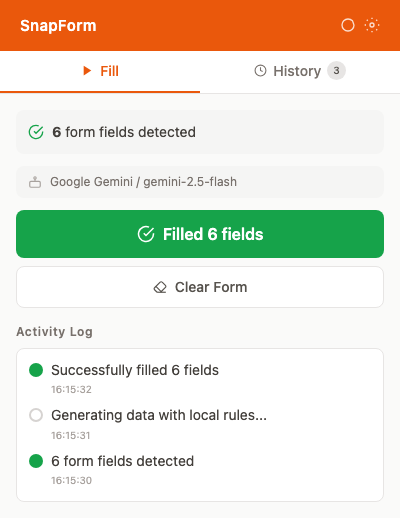
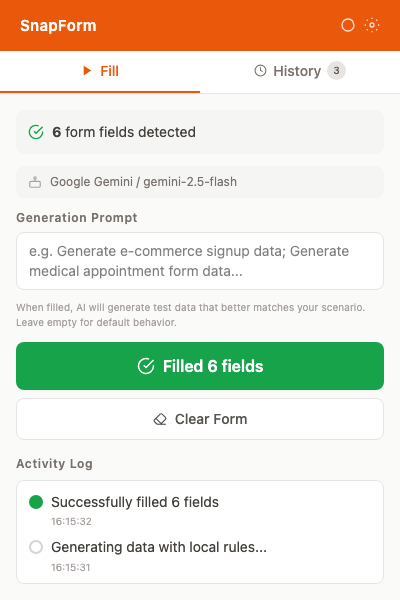
docs: fix screenshots to include custom prompt textarea in popup

Changed region(s): [[0.03, 0.4015, 0.96, 0.9575], [0.0, 0.0309, 1.0, 0.3707]]

diff --git a/screenshots/compose.html b/screenshots/compose.html
@@ -1,0 +1,84 @@
+<!DOCTYPE html>
+<html>
+<head>
+<meta charset="UTF-8">
+<style>
+  * { margin: 0; padding: 0; box-sizing: border-box; }
+  .scene { width: 1280px; height: 800px; position: relative; overflow: hidden; }
+</style>
+</head>
+<body>
+<div id="root"></div>
+<script>
+  const params = new URLSearchParams(location.search);
+  const bg = params.get('bg'); // e.g. scene1, scene2, scene3
+  const popup = params.get('popup'); // e.g. popup-fill-en.png
+
+  const backgrounds = {
+    scene1: `
+      <div style="width:1280px;height:800px;background:#fff;font-family:-apple-system,BlinkMacSystemFont,sans-serif;">
+        <div style="background:#e7e5e4;padding:8px 12px;display:flex;align-items:center;gap:8px;border-bottom:1px solid #d6d3d1;">
+          <div style="display:flex;gap:6px;"><span style="width:12px;height:12px;border-radius:50%;background:#ef4444;"></span><span style="width:12px;height:12px;border-radius:50%;background:#f59e0b;"></span><span style="width:12px;height:12px;border-radius:50%;background:#22c55e;"></span></div>
+          <div style="flex:1;background:#fff;border-radius:6px;padding:6px 14px;font-size:13px;color:#57534E;margin:0 80px;border:1px solid #d6d3d1;">https://example.com/register</div>
+        </div>
+        <div style="padding:40px 80px;">
+          <h2 style="font-size:24px;font-weight:600;color:#1C1917;margin-bottom:24px;">User Registration</h2>
+          <div style="background:#fff;border:1px solid #e7e5e4;border-radius:12px;padding:28px;max-width:560px;position:relative;">
+            <div style="position:absolute;top:10px;right:10px;width:24px;height:24px;border-radius:6px;background:rgba(255,255,255,0.85);color:#9a3412;border:1px solid rgba(234,88,12,0.25);display:flex;align-items:center;justify-content:center;box-shadow:0 1px 2px rgba(0,0,0,0.04),0 2px 6px rgba(0,0,0,0.04);">
+              <svg width="14" height="14" viewBox="0 0 24 24" fill="currentColor"><path d="M13 2L3 14h9l-1 8 10-12h-9l1-8z"/></svg>
+            </div>
+            <div style="display:flex;gap:16px;margin-bottom:16px;">
+              <div style="flex:1;"><label style="display:block;font-size:14px;font-weight:500;color:#44403C;margin-bottom:6px;">Full Name <span style="color:#ef4444;">*</span></label><input type="text" value="Zhang Wei" style="width:100%;padding:10px 14px;border:1px solid #EA580C;border-radius:6px;font-size:14px;background:#fff7ed;"></div>
+              <div style="flex:1;"><label style="display:block;font-size:14px;font-weight:500;color:#44403C;margin-bottom:6px;">Email <span style="color:#ef4444;">*</span></label><input type="email" value="alex.chen42@gmail.com" style="width:100%;padding:10px 14px;border:1px solid #EA580C;border-radius:6px;font-size:14px;background:#fff7ed;"></div>
+            </div>
+            <div style="display:flex;gap:16px;margin-bottom:16px;">
+              <div style="flex:1;"><label style="display:block;font-size:14px;font-weight:500;color:#44403C;margin-bottom:6px;">Phone</label><input type="tel" value="13856729401" style="width:100%;padding:10px 14px;border:1px solid #EA580C;border-radius:6px;font-size:14px;background:#fff7ed;"></div>
+              <div style="flex:1;"><label style="display:block;font-size:14px;font-weight:500;color:#44403C;margin-bottom:6px;">Company</label><input type="text" value="Tencent" style="width:100%;padding:10px 14px;border:1px solid #EA580C;border-radius:6px;font-size:14px;background:#fff7ed;"></div>
+            </div>
+            <div><label style="display:block;font-size:14px;font-weight:500;color:#44403C;margin-bottom:6px;">Address</label><input type="text" value="Shenzhen Tech Park 168" style="width:100%;padding:10px 14px;border:1px solid #EA580C;border-radius:6px;font-size:14px;background:#fff7ed;"></div>
+          </div>
+        </div>
+      </div>
+    `,
+    scene2: `
+      <div style="width:1280px;height:800px;background:#fff;font-family:-apple-system,BlinkMacSystemFont,sans-serif;">
+        <div style="background:#e7e5e4;padding:8px 12px;display:flex;align-items:center;gap:8px;border-bottom:1px solid #d6d3d1;">
+          <div style="display:flex;gap:6px;"><span style="width:12px;height:12px;border-radius:50%;background:#ef4444;"></span><span style="width:12px;height:12px;border-radius:50%;background:#f59e0b;"></span><span style="width:12px;height:12px;border-radius:50%;background:#22c55e;"></span></div>
+          <div style="flex:1;background:#fff;border-radius:6px;padding:6px 14px;font-size:13px;color:#57534E;margin:0 80px;border:1px solid #d6d3d1;">https://ant.design/components/form-cn</div>
+        </div>
+        <div style="padding:40px 80px;">
+          <h2 style="font-size:24px;font-weight:600;color:#1C1917;margin-bottom:24px;">Ant Design 表单</h2>
+          <div style="background:#fff;border:1px solid #e7e5e4;border-radius:12px;padding:28px;max-width:520px;position:relative;">
+            <div style="position:absolute;top:10px;right:10px;width:24px;height:24px;border-radius:6px;background:rgba(255,255,255,0.85);color:#9a3412;border:1px solid rgba(234,88,12,0.25);display:flex;align-items:center;justify-content:center;box-shadow:0 1px 2px rgba(0,0,0,0.04),0 2px 6px rgba(0,0,0,0.04);">
+              <svg width="14" height="14" viewBox="0 0 24 24" fill="currentColor"><path d="M13 2L3 14h9l-1 8 10-12h-9l1-8z"/></svg>
+            </div>
+            <div style="margin-bottom:16px;"><label style="display:block;font-size:14px;font-weight:500;color:#44403C;margin-bottom:6px;">用户名 <span style="color:#ef4444;">*</span></label><input type="text" value="赵磊" style="width:100%;padding:10px 14px;border:1px solid #EA580C;border-radius:6px;font-size:14px;background:#fff7ed;"></div>
+            <div style="margin-bottom:16px;"><label style="display:block;font-size:14px;font-weight:500;color:#44403C;margin-bottom:6px;">邮箱 <span style="color:#ef4444;">*</span></label><input type="email" value="morgan.liu85@outlook.com" style="width:100%;padding:10px 14px;border:1px solid #EA580C;border-radius:6px;font-size:14px;background:#fff7ed;"></div>
+            <div style="margin-bottom:16px;"><label style="display:block;font-size:14px;font-weight:500;color:#44403C;margin-bottom:6px;">手机号码</label><input type="tel" value="15892374610" style="width:100%;padding:10px 14px;border:1px solid #EA580C;border-radius:6px;font-size:14px;background:#fff7ed;"></div>
+            <div style="margin-bottom:16px;"><label style="display:block;font-size:14px;font-weight:500;color:#44403C;margin-bottom:6px;">所在城市</label><input type="text" value="杭州" style="width:100%;padding:10px 14px;border:1px solid #EA580C;border-radius:6px;font-size:14px;background:#fff7ed;"></div>
+            <div><label style="display:block;font-size:14px;font-weight:500;color:#44403C;margin-bottom:6px;">个人简介</label><textarea style="width:100%;height:50px;border:1px solid #EA580C;border-radius:6px;padding:10px 14px;font-size:14px;background:#fff7ed;font-family:inherit;">资深产品经理，关注用户增长与商业化策略。</textarea></div>
+          </div>
+        </div>
+      </div>
+    `,
+    scene3: `
+      <div style="width:1280px;height:800px;background:#fff;font-family:-apple-system,BlinkMacSystemFont,sans-serif;">
+        <div style="background:#e7e5e4;padding:8px 12px;display:flex;align-items:center;gap:8px;border-bottom:1px solid #d6d3d1;">
+          <div style="display:flex;gap:6px;"><span style="width:12px;height:12px;border-radius:50%;background:#ef4444;"></span><span style="width:12px;height:12px;border-radius:50%;background:#f59e0b;"></span><span style="width:12px;height:12px;border-radius:50%;background:#22c55e;"></span></div>
+          <div style="flex:1;background:#fff;border-radius:6px;padding:6px 14px;font-size:13px;color:#57534E;margin:0 80px;border:1px solid #d6d3d1;">https://example.com/dashboard</div>
+        </div>
+        <div style="padding:40px 80px;opacity:0.3;">
+          <h2 style="font-size:24px;font-weight:600;color:#1C1917;margin-bottom:24px;">Dashboard</h2>
+          <p style="color:#78716C;margin-top:12px;">Welcome back, Alex</p>
+        </div>
+      </div>
+    `,
+  };
+
+  const root = document.getElementById('root');
+  if (bg && backgrounds[bg]) {
+    root.innerHTML = backgrounds[bg] + `<img src="${popup}" style="position:absolute;top:8px;right:24px;width:400px;border-radius:12px;box-shadow:0 20px 60px rgba(0,0,0,0.15),0 4px 16px rgba(0,0,0,0.1);z-index:10;display:block;">`;
+  }
+</script>
+</body>
+</html>
